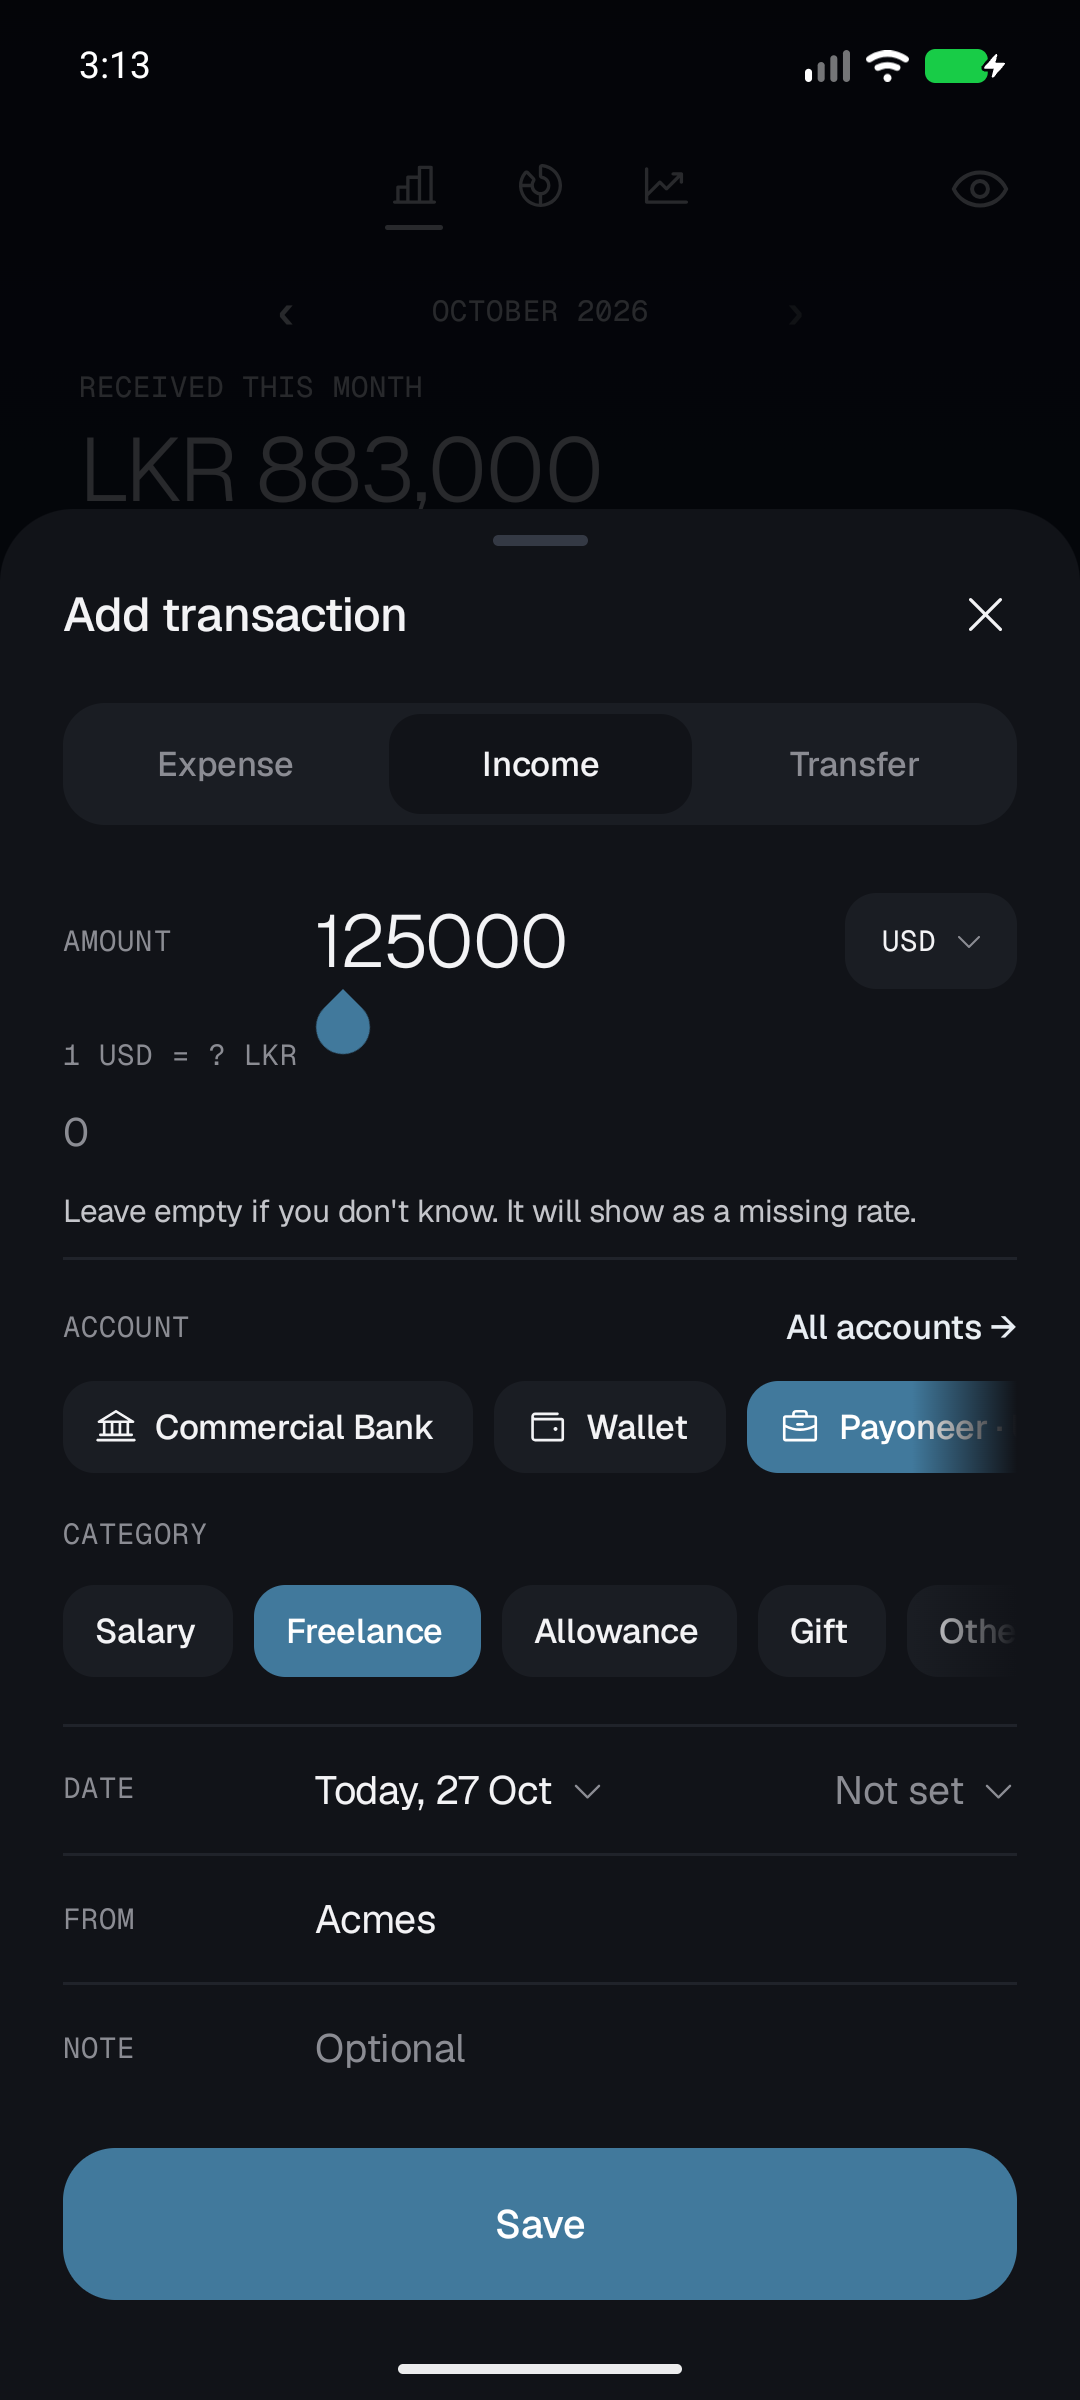
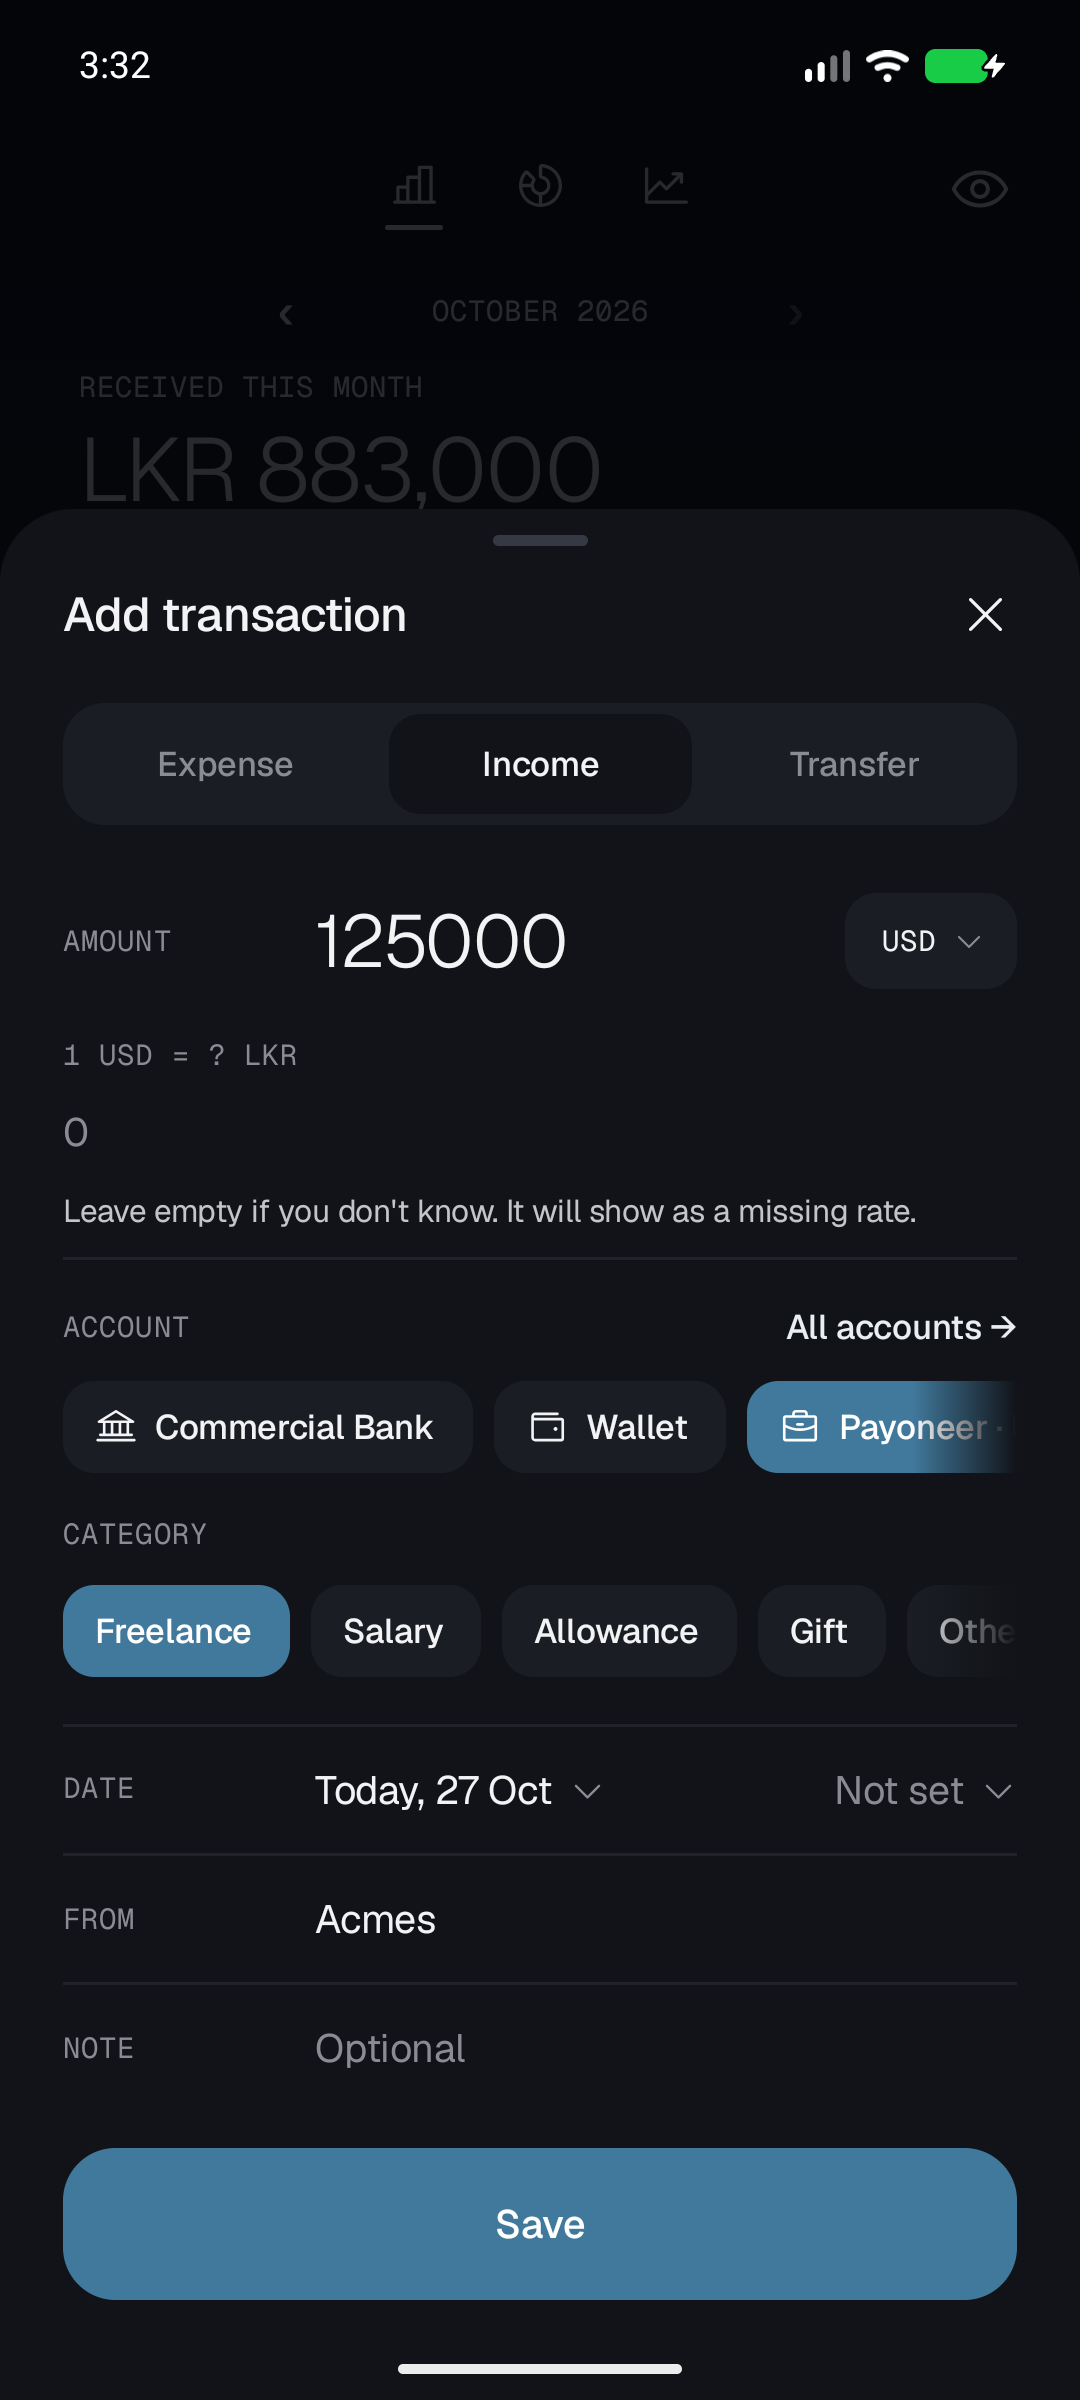
docs(income): Figma parity evidence, comparisons and README

Changed region(s): [[0.0611, 0.6562, 0.4583, 0.7188], [0.275, 0.4062, 0.3361, 0.4375], [0.0917, 0.0, 0.1222, 0.0312]]

diff --git a/docs/evidence/pixel6a-feedback/final-figma-alignment/income-parity/README.md b/docs/evidence/pixel6a-feedback/final-figma-alignment/income-parity/README.md
@@ -1,0 +1,63 @@
+# Add / Edit income: Figma visual parity (27 Oct 2026)
+
+Figma `bBBJuQz1Cg8N34FcisKBs9`, page Screens `1:2`: Z162 Add income (Light `465:8316`, Dark `465:10428`) and Z171 Edit income
+(Light `522:16719`, Dark `522:17140`). Official connector context and screenshot for Z162 Light were read in the earlier run;
+the other three frames were compared from the local PNG exports.
+
+Device: Pixel_6a AVD (`emulator-5554`, 1080×2400 at 420 dpi). Local Firebase emulators only (Auth 9099, Firestore 8080),
+synthetic account `benchmark@zar.test` (`tools/benchmark-seed.mjs`), debug build with `-Pzar.useEmulators=true`
+(`BuildConfig.USE_FIREBASE_EMULATORS = true` checked before sign-in). Nothing here is a physical-phone, 60/120 Hz or haptic claim.
+Every image is a running-app `adb screencap`; there are no fixtures in this folder.
+
+Tested code commit: `abb07bf` (this folder's docs and images are committed after it and change no code).
+
+## What changed
+- Sheet is a compact, intrinsic-height lower sheet: its top sits at about 30% of the screen, as in Figma (Z162 about 31%).
+- AMOUNT and the currency control share one row. Currency stays derived from the selected account: the dropdown lists only the
+  currencies of non-archived accounts and picking one selects the first usable account in it (keeps the current one when it
+  already matches). An edit keeps its recorded currency and shows it without a menu.
+- ACCOUNT with `All accounts →` (stacks every account; picking one returns to the strip) over a horizontal chip strip with a
+  fade at the scrolling edge. CATEGORY strip, Freelance first as in Figma.
+- DATE and TIME on one row, `Today, 27 Oct` / `Yesterday, …` / `Tue, 13 Oct`; the time is optional and reads `Not set`.
+  Date and time open the shared Expense pickers (Today/Yesterday shortcuts, dial). The time picker offers `Remove time` only
+  when a time is set. FROM and NOTE are inline rows. Save is full width; edit has `Undo this income` + Save.
+- The rate row for a non-LKR account stays, directly under the amount.
+- Edit opens as a dialog over the Received list, so the list shows behind the scrim as in Z171.
+- Large text: from 1.3× the row labels sit above their values; from 1.5× the edit actions stack with Save first (Figma stacks at
+  2.0, but `Undo this income` already clips at 1.5×). The form scrolls and Save stays pinned. All targets are at least 48 dp.
+
+## Captures
+| Area | Light | Dark |
+| --- | --- | --- |
+| Add default, filled | `light/01`, `02` | `dark/01`, `02` |
+| Keyboard open (amount) | `light/04` | `dark/04` |
+| Date picker, time picker | `light/05`, `06` | `dark/05`, `06` |
+| All accounts | `light/07` | `dark/07` |
+| Currency menu, USD with rate row | `light/08`, `09` | `dark/08`, `09` |
+| Edit | `light/10` | `dark/10` |
+| Font 1.5 / 2.0 (Add) | | `dark/11`, `12` |
+| Small display 340 dpi (Add, Edit) | | `dark/13`, `14` |
+| Edit at font 2.0 / 1.5 (actions stacked) | | `dark/15`, `16` |
+| Figma beside app | `compare/add-light`, `edit-light` | `compare/add-dark`, `edit-dark` |
+
+Account names, amounts and the "Today, 27 Oct" date differ from Figma because the frames use sample data (Sampath Bank, 125,000, 15 Oct).
+
+## Known differences from Figma
+- The amount is not digit-grouped while editing (`125000`, Figma `125,000`); the shared Zar amount field does the same on Expense.
+- Time starts as `Not set` (the domain keeps time optional); Figma shows `9:55 AM`.
+- The currency control has no caret when it has no menu (edit, or a single account currency); Figma's edit frame shows one.
+- The scrolling edge of the chip strip fades; Figma Dark draws a hard clip.
+- The sheet is about 3 dp taller than Z162.
+- Figma stacks edit actions at 2.0× text; the app does from 1.5×.
+
+## Functional run on the emulator (same synthetic account)
+Add 5,000 LKR Salary from `ParityTest`: Received this month 883,000 → 888,000 (one record). Edit to 5,500: 888,500.
+`Undo this income`: back to 883,000. Android state afterwards: Light, Reduce motion off, density 420, font 1.0, night off, animators 1.
+
+## Tests (this change only)
+- Unit: 1,232 passed, 0 failed (1,228 before, plus 4 `IncomeFormatDateLabelTest`).
+- Instrumented, impacted classes only (`IncomeSheetParityUiTest`, `IncomeCorrectionUiTest`, `FinalFigmaAlignmentUiTest`,
+  `AddTransactionSessionUiTest`, `ManualEntryScreenUiTest`, `TimePresetUiTest`, `ActivityScreensUiTest`, `RouteMotionNavTest`): 96 passed,
+  0 failed, 0 skipped; after the last category-order change `IncomeSheetParityUiTest`, `FinalFigmaAlignmentUiTest`,
+  `IncomeCorrectionUiTest` were re-run: 28 passed. The full 351-test instrumented suite was not re-run.
+- `assembleDebug` and `compileDebugAndroidTestKotlin` pass on JDK 21 with `--max-workers=2`.

diff --git a/docs/evidence/pixel6a-feedback/final-figma-alignment/README.md b/docs/evidence/pixel6a-feedback/final-figma-alignment/README.md
@@ -36,7 +36,7 @@ Figma: file `bBBJuQz1Cg8N34FcisKBs9`, page Screens `1:2`. Local PNG exports used
 
 ## Comparisons and known differences
 - Received list matches Z169: back, title, summary card, month group card, trailing amount, Add income pill. Row text wraps differently at 2.0 font (amount drops under the title from 1.3x, per section 25).
-- Add income keeps the app's existing sheet layout (amount on its own line, account and category chips wrap). Only the **field order** of Z162 was applied, as the handoff says. Figma's one-row amount + currency dropdown and the "Today" date shortcut were not built.
+- Add income was restyled to Z162/Z171 in a later pass (compact sheet, inline amount and currency, account and category strips, date/time row): see `income-parity/README.md`. The captures `light/02*` and `dark/02*` in this folder predate it and show the old layout.
 - Z197 shows the hero message with no title line, so the Freelance screen has no heading text.
 - Z186 to Z189, Z192 to Z194, Z196 were not part of the single follow-up (handoff section 10 item 5 lists only Z190, Z191, Z195). Only the Z188/Z189 button and error colours are covered.
 
@@ -45,7 +45,7 @@ Figma: file `bBBJuQz1Cg8N34FcisKBs9`, page Screens `1:2`. Local PNG exports used
 
 Verification of this small parent-authored fix: 15 `NavCapsuleControllerTest` unit tests and 12 `ZarBottomNavMotionTest` emulator tests pass, with no failures or skips. This includes the regression, LTR/RTL end stops, interruption and reduced motion. The earlier Sonnet run counted 1,228 unit tests; its full instrumentation run counted 351 tests, no failures, nine skips. The seven Firebase-backed skips passed in a separate emulator-enabled run; the other two restart-phase skips remain intentional (last separately verified in the prior suite handoff). These are separate runs, not a new combined full-suite result.
 
-The Add Income layout differences above remain scheduled for a separate sequential Sonnet pass; field order alone does not establish visual parity.
+The Add Income layout differences were closed in the later `income-parity/` pass; field order alone had not established visual parity.
 
 ## Restored device state
 Light appearance, Reduce motion off, Hide amounts off, density 420, font scale 1.0, night mode off, animator scale 1.
